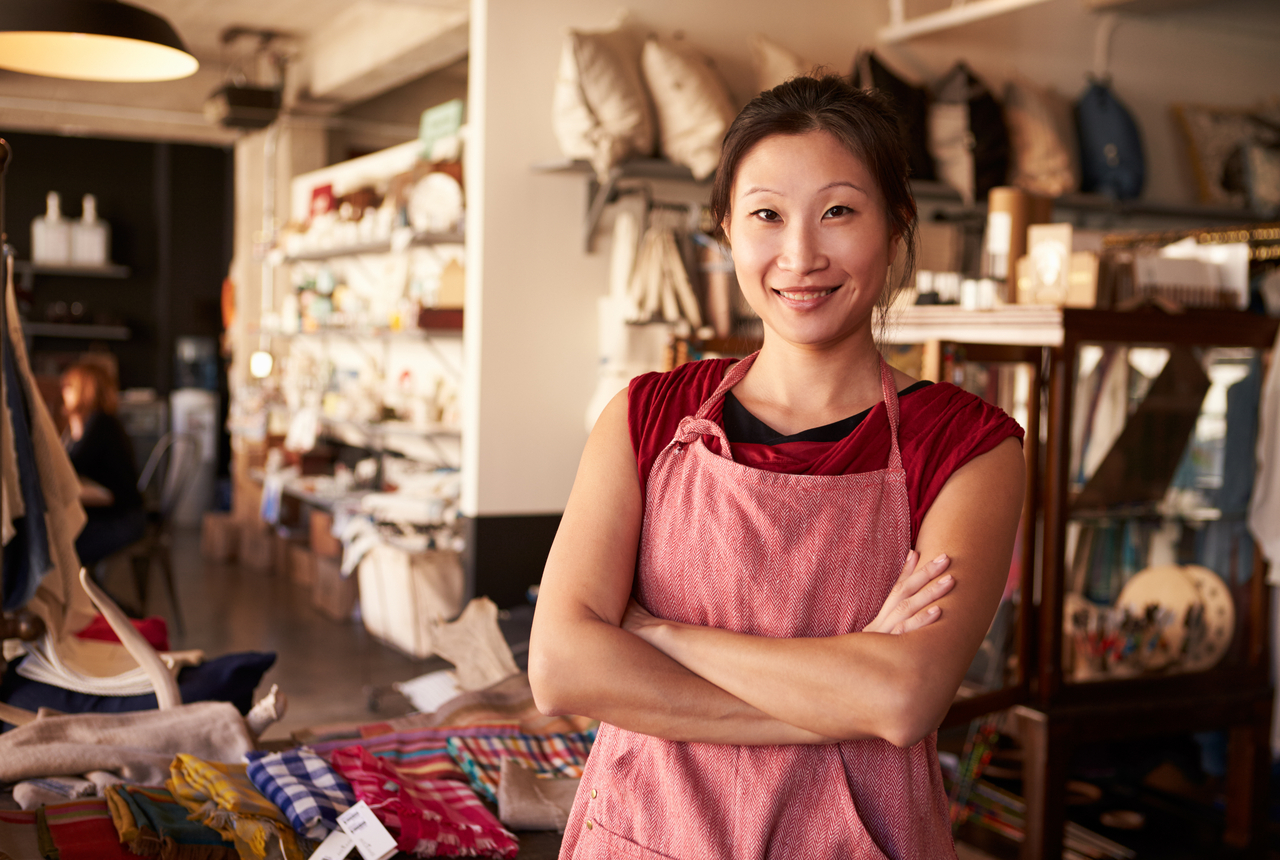
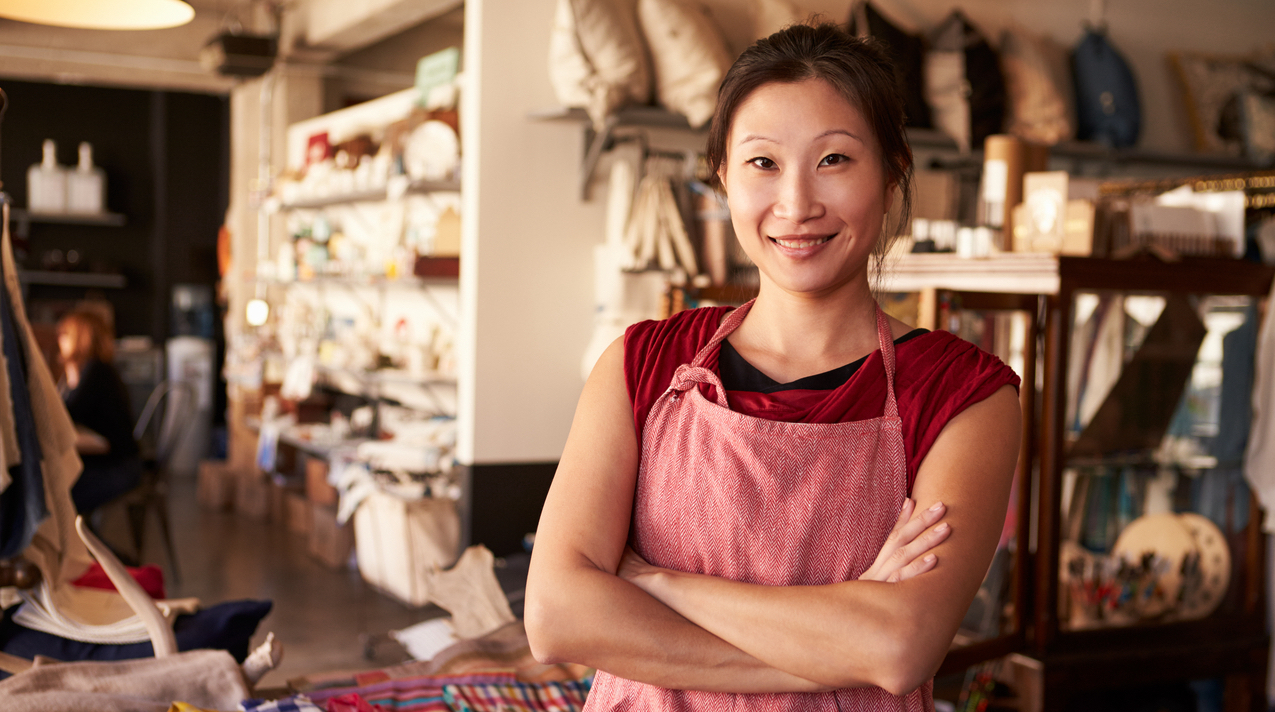
search business card working and rendering info

diff --git a/client/src/components/SearchBCard/index.js b/client/src/components/SearchBCard/index.js
@@ -1,0 +1,45 @@
+import React from 'react';
+
+import { Container, Row, Col, Button } from 'react-bootstrap';
+
+
+const SearchBCard = ({ data, setOrdered }) => {
+
+return (
+    
+    <Container>
+
+        <Row className='border border-dark border-5 rounded'>
+
+            <Col xs={3} className='border border-dark border-2'> 
+                <img src={data.image} ></img>
+            </Col>
+            <Col xs={9}>
+                <Row>
+                    <h3>{data.desc}</h3>
+                </Row>
+                <Row>
+                    <Col>
+                        <Button>Location 📍</Button>
+                    </Col>
+                    <Col>
+                        <Button>PHONE NUMBER 📞</Button>
+                    </Col>
+                    <Col>
+                        <Button>WEBSITE 🖥</Button>
+                    
+                    </Col>
+                </Row>
+                
+            </Col>
+            
+            
+        </Row>
+
+
+    </Container>
+)
+
+}
+
+export default SearchBCard;

diff --git a/client/src/pages/MainSearch.js b/client/src/pages/MainSearch.js
@@ -1,17 +1,28 @@
 import React from 'react';
 
+import { Container, Row, Col } from 'react-bootstrap';
 
+import SearchBCard from '../components/SearchBCard'
 
-const MainSearch = () => {
+import businesses from '../businessData.json'
+
+const MainSearch = (data) => {
 
 return (
-    <main>
-        <p>
-            hahahahahaha
-        </p>
+    
+    <Container>
+
+        <Row >
+        {businesses.map(data => (
+          <Row  className="mb-3" key={`${data.id}`}>
+            <SearchBCard data={data} setOrdered={true} />
+          </Row>
+        ))}
+            
+        </Row>
 
 
-    </main>
+    </Container>
 )
 
 }

diff --git a/client/src/components/HeroMain/index.js b/client/src/components/HeroMain/index.js
@@ -9,12 +9,14 @@ const HeroMain = () => {
     return (
         <>
 
-        <Carousel>
-            <Carousel.Item interval={9000}>
+        <Carousel style={{ height: "80%" }}>
+            <Carousel.Item interval={9000} >
                 <img
-                className="d-block w-100"
+                className="d-block"
                 src={shopimage}
                 alt="First slide"
+                
+                
                 />
                 <Carousel.Caption>
                 <FloatingLabel style={{ color: "green" }} controlId="floatingInput" label="Search a CITY to shop concious!" className="mb-3">

diff --git a/client/src/components/NavbarMain/index.js b/client/src/components/NavbarMain/index.js
@@ -16,6 +16,7 @@ const NavbarMain = () => {
                 <Navbar.Toggle aria-controls="basic-navbar-nav" />
                 <Navbar.Collapse className="justify-content-end" id="basic-navbar-nav">
                     <Nav>
+                    <Nav.Link href="/search">MainSearch</Nav.Link>
                         <Button variant="outline-secondary" className="me-2">
                             <Nav.Link href="/login">Login</Nav.Link>
                         </Button>

diff --git a/client/src/components/Top5Card/index.js b/client/src/components/Top5Card/index.js
@@ -10,7 +10,7 @@ var Top5Card = function ({ data, setOrdered }) {
       <Col>
 
         <Card className="h-100 shadow-sm bg-white rounded mt-2">
-        {/* <Card.Img variant="top" src={data.image} /> */}
+        <Card.Img variant="top" src={data.image} />
         <Card.Body className="d-flex flex-column">
             <div className="d-flex mb-2 justify-content-between">
             <Card.Title className="mb-0 font-weight-bold">{data.name}</Card.Title>

diff --git a/client/src/pages/HomeMain.js b/client/src/pages/HomeMain.js
@@ -6,6 +6,7 @@ import HeroMain from '../components/HeroMain';
 import Top5Card from '../components/Top5Card';
 
 
+
 import businesses from '../businessData.json'
 
 const HomeMain = () => {
